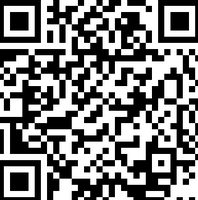
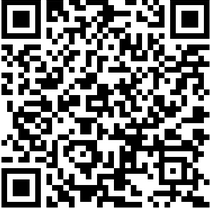
Updated

diff --git a/styles.css b/styles.css
@@ -63,7 +63,7 @@ a:hover {
 	padding-left: 45px;
 }
 
-#qrcode, #offer {
+#offer {
 	max-width: 100%;
 	max-height: 100%;
 	border: 4px solid black;
